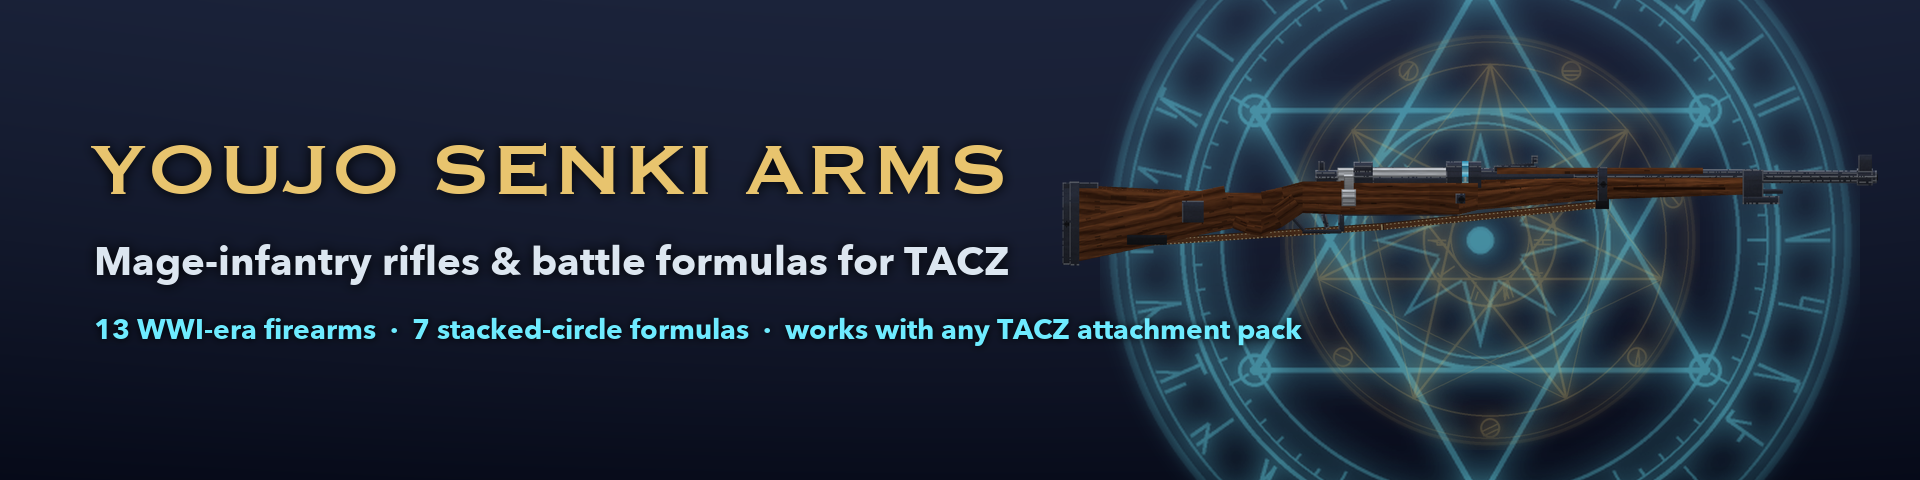
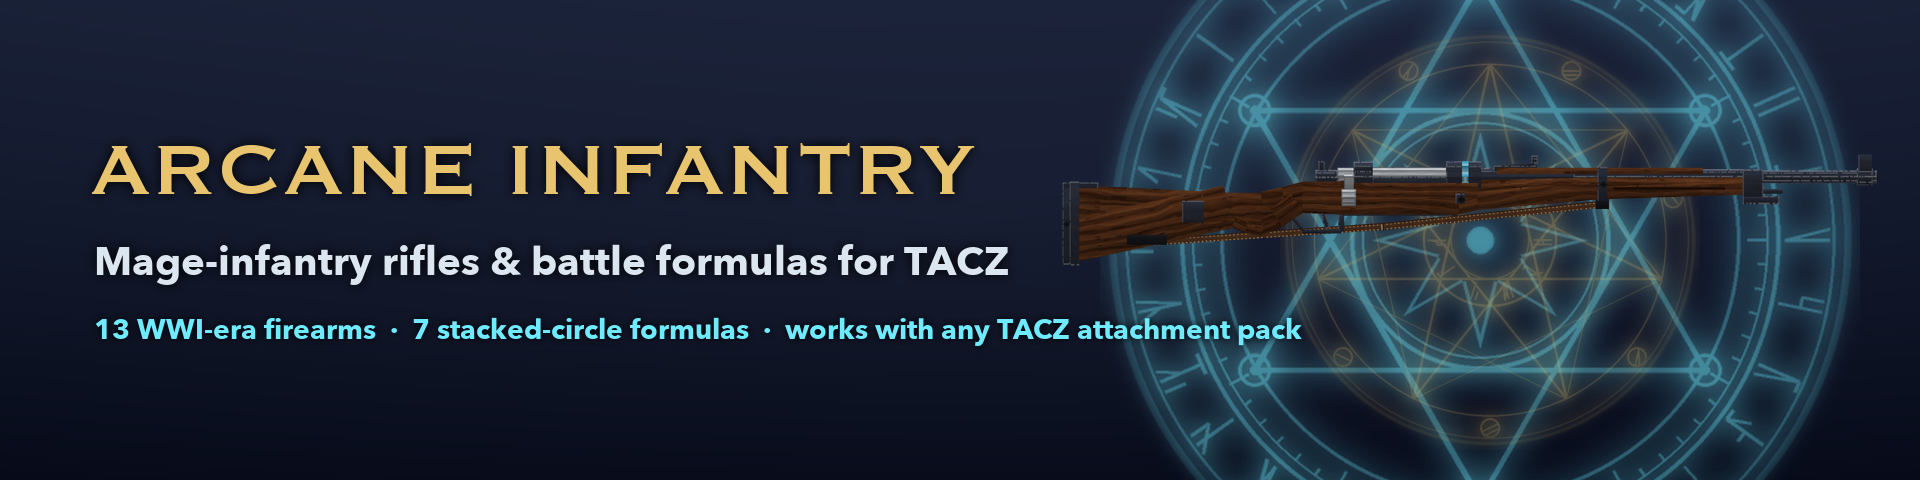
chore(youjoarms): rename to Arcane Infantry and set version 1.0.0
The public name no longer uses the anime's title. Updates the mod display
name, the Controls key category, the resource pack description, the logo,
banner and CurseForge description, and names the jar
arcane-infantry-1.0.0.jar. The mod id stays youjoarms so the gun pack
namespace is unchanged.

Changed region(s): [[0.0312, 0.2812, 0.5312, 0.4062]]

diff --git a/Youjo Senki Arms/tools/build_showcase.py b/Youjo Senki Arms/tools/build_showcase.py
@@ -70,7 +70,7 @@ def logo():
     shadow.putalpha(gun.split()[3].filter(ImageFilter.GaussianBlur(6)))
     img.alpha_composite(shadow, ((400 - gun.width) // 2 + 4, (400 - gun.height) // 2 + 8))
     img.alpha_composite(gun, ((400 - gun.width) // 2, (400 - gun.height) // 2))
-    glow_text(img, (200, 352), "YOUJO ARMS", ImageFont.truetype(TITLE, 46), GOLD)
+    glow_text(img, (200, 352), "ARCANE INFANTRY", ImageFont.truetype(TITLE, 34), GOLD)
     return img.convert("RGB")
 
 
@@ -81,7 +81,7 @@ def banner():
     img.alpha_composite(tinted(SEAL, 420, GOLD, 0.35), (w - 640, 30))
     gun = gun_art("kar98k", 820, 300)
     img.alpha_composite(gun, (w - 860, 360 - gun.height))
-    glow_text(img, (90, 170), "YOUJO SENKI ARMS", ImageFont.truetype(TITLE, 92), GOLD, anchor="lm")
+    glow_text(img, (90, 170), "ARCANE INFANTRY", ImageFont.truetype(TITLE, 92), GOLD, anchor="lm")
     glow_text(img, (94, 262), "Mage-infantry rifles & battle formulas for TACZ", ImageFont.truetype(BODY, 40), (220, 230, 240), anchor="lm")
     glow_text(img, (94, 330), "13 WWI-era firearms  ·  7 stacked-circle formulas  ·  works with any TACZ attachment pack",
               ImageFont.truetype(BODY, 28), CYAN, anchor="lm", blur=4)

diff --git a/Youjo Senki Arms/showcase/CURSEFORGE_DESCRIPTION.md b/Youjo Senki Arms/showcase/CURSEFORGE_DESCRIPTION.md
@@ -1,6 +1,6 @@
-![Youjo Senki Arms](banner.png)
+![Arcane Infantry](banner.png)
 
-# Youjo Senki Arms
+# Arcane Infantry
 
 **Mage-infantry rifles and battle formulas for [TACZ](https://www.curseforge.com/minecraft/mc-mods/timeless-and-classics-zero).**
 
@@ -60,7 +60,7 @@ The guns accept attachments through TACZ's shared attachment tags, so **scopes, 
 | **V** | Cycle formulas |
 | Fire | Release a fully charged formula |
 
-Both keys can be rebound under *Controls → Youjo Senki Arms*.
+Both keys can be rebound under *Controls → Arcane Infantry*.
 
 ---
 

diff --git a/Youjo Senki Arms/README.md b/Youjo Senki Arms/README.md
@@ -1,4 +1,4 @@
-# Youjo Senki Arms (`youjoarms`)
+# Arcane Infantry (`youjoarms`)
 
 A standalone Forge 1.20.1 mod add-on for **TACZ (Timeless and Classics Zero)** that introduces WWI/WWII-era firearms with **mage-infantry formula casting** (inspired by anime aerial mage combat): glowing magic circles at the muzzle, colored streak tracers, and spell-infused munitions.
 

diff --git a/Youjo Senki Arms/docs/TACZ_API_NOTES.md b/Youjo Senki Arms/docs/TACZ_API_NOTES.md
@@ -1,6 +1,6 @@
 # TACZ API & Gun Pack Architecture Notes
 
-Documenting findings from inspecting `tacz-1.20.1-1.1.6-hotfix.jar` to guide `Youjo Senki Arms` (`youjoarms`).
+Documenting findings from inspecting `tacz-1.20.1-1.1.6-hotfix.jar` to guide `Arcane Infantry` (`youjoarms`).
 
 ---
 
